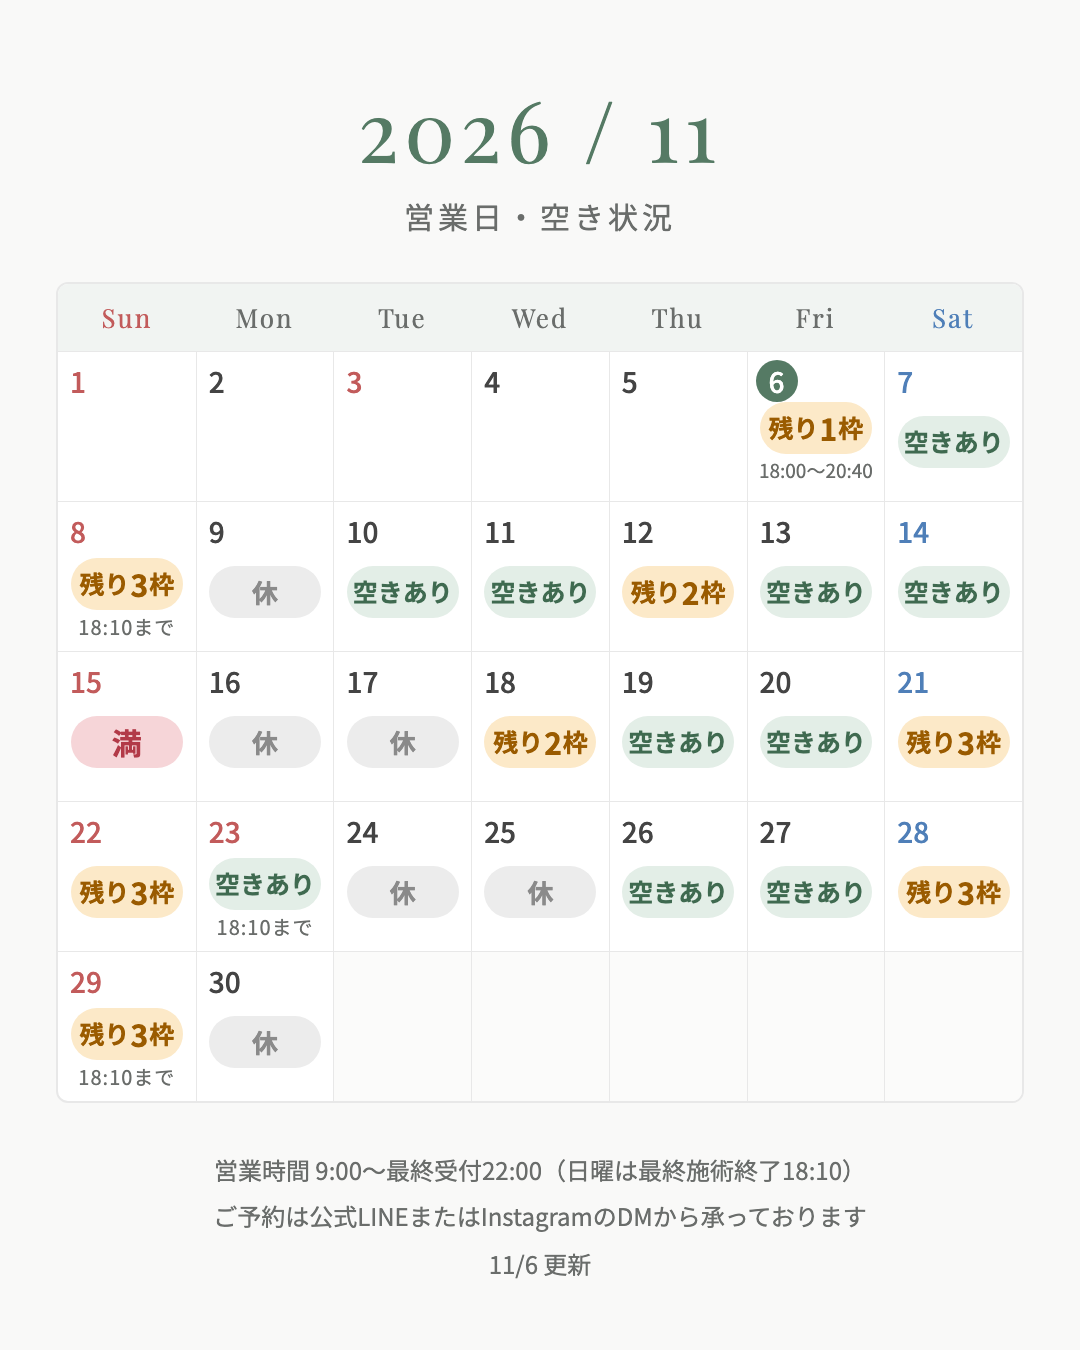
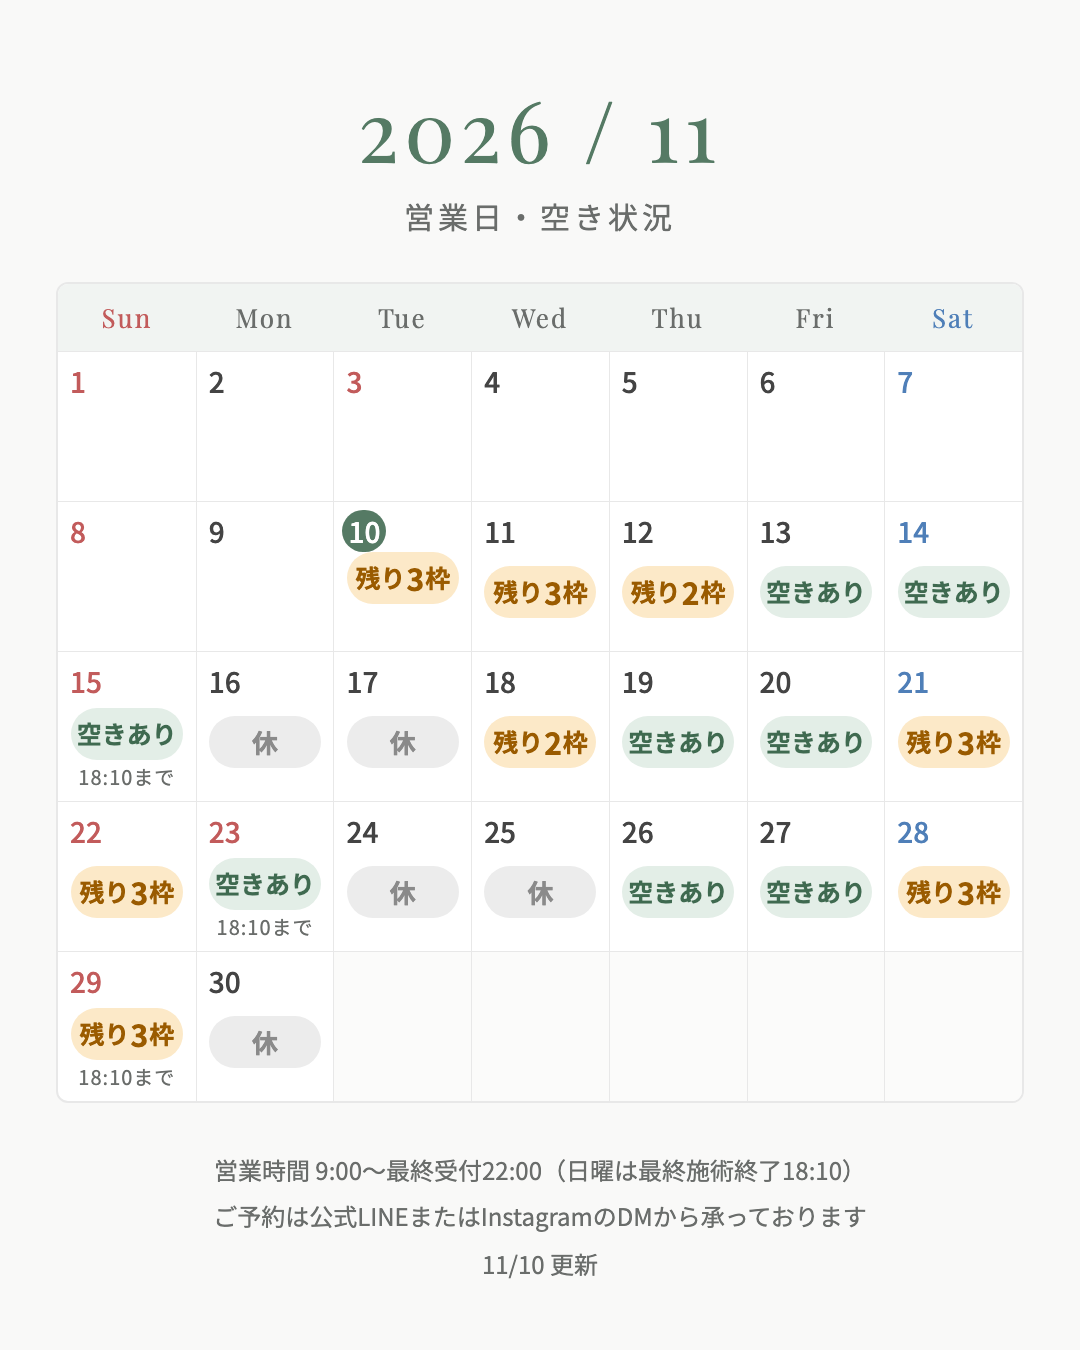
chore: 空き状況カレンダーを更新(10・11日残り3枠、15日空きあり、更新日11/10)

diff --git a/src/calendarInfo.ts b/src/calendarInfo.ts
@@ -4,4 +4,4 @@
  */
 export const CALENDAR_IMAGE = '/images/calendar/current.png';
 /** 画像を更新した日 (YYYY-MM-DD) */
-export const CALENDAR_UPDATED = '2026-11-06';
+export const CALENDAR_UPDATED = '2026-11-10';

diff --git a/scripts/calendar/gen.py b/scripts/calendar/gen.py
@@ -1,6 +1,6 @@
 import json, datetime, calendar, html
 Y, M = 2026, 11
-TODAY = datetime.date(2026, 11, 6)
+TODAY = datetime.date(2026, 11, 10)
 TARGET = 5
 BLOCK = 90  # 70分施術+清掃etc: 次の開始まで90分(3スロット)
 HOLIDAYS = {datetime.date(2026,11,3), datetime.date(2026,11,23)}
@@ -15,10 +15,10 @@ def capacity(slots):
             n += 1; nxt = t + BLOCK
     return n
 
-OVERRIDES = {5:('few',1),6:('few',1),8:('few',3),12:('few',2),18:('few',2),21:('few',3),22:('few',3),25:('closed',None),28:('few',3),29:('few',3)}
+OVERRIDES = {10:('few',3),11:('few',3),15:('open',None),5:('few',1),6:('few',1),8:('few',3),12:('few',2),18:('few',2),21:('few',3),22:('few',3),25:('closed',None),28:('few',3),29:('few',3)}
 
 # セルに添える注記 (日 -> 文言)
-NOTES = {6: '18:00〜20:40', 8: '18:10まで', 23: '18:10まで', 29: '18:10まで'}
+NOTES = {15: '18:10まで', 6: '18:00〜20:40', 8: '18:10まで', 23: '18:10まで', 29: '18:10まで'}
 
 def status(d):
     if d < TODAY: return ('past', None)
